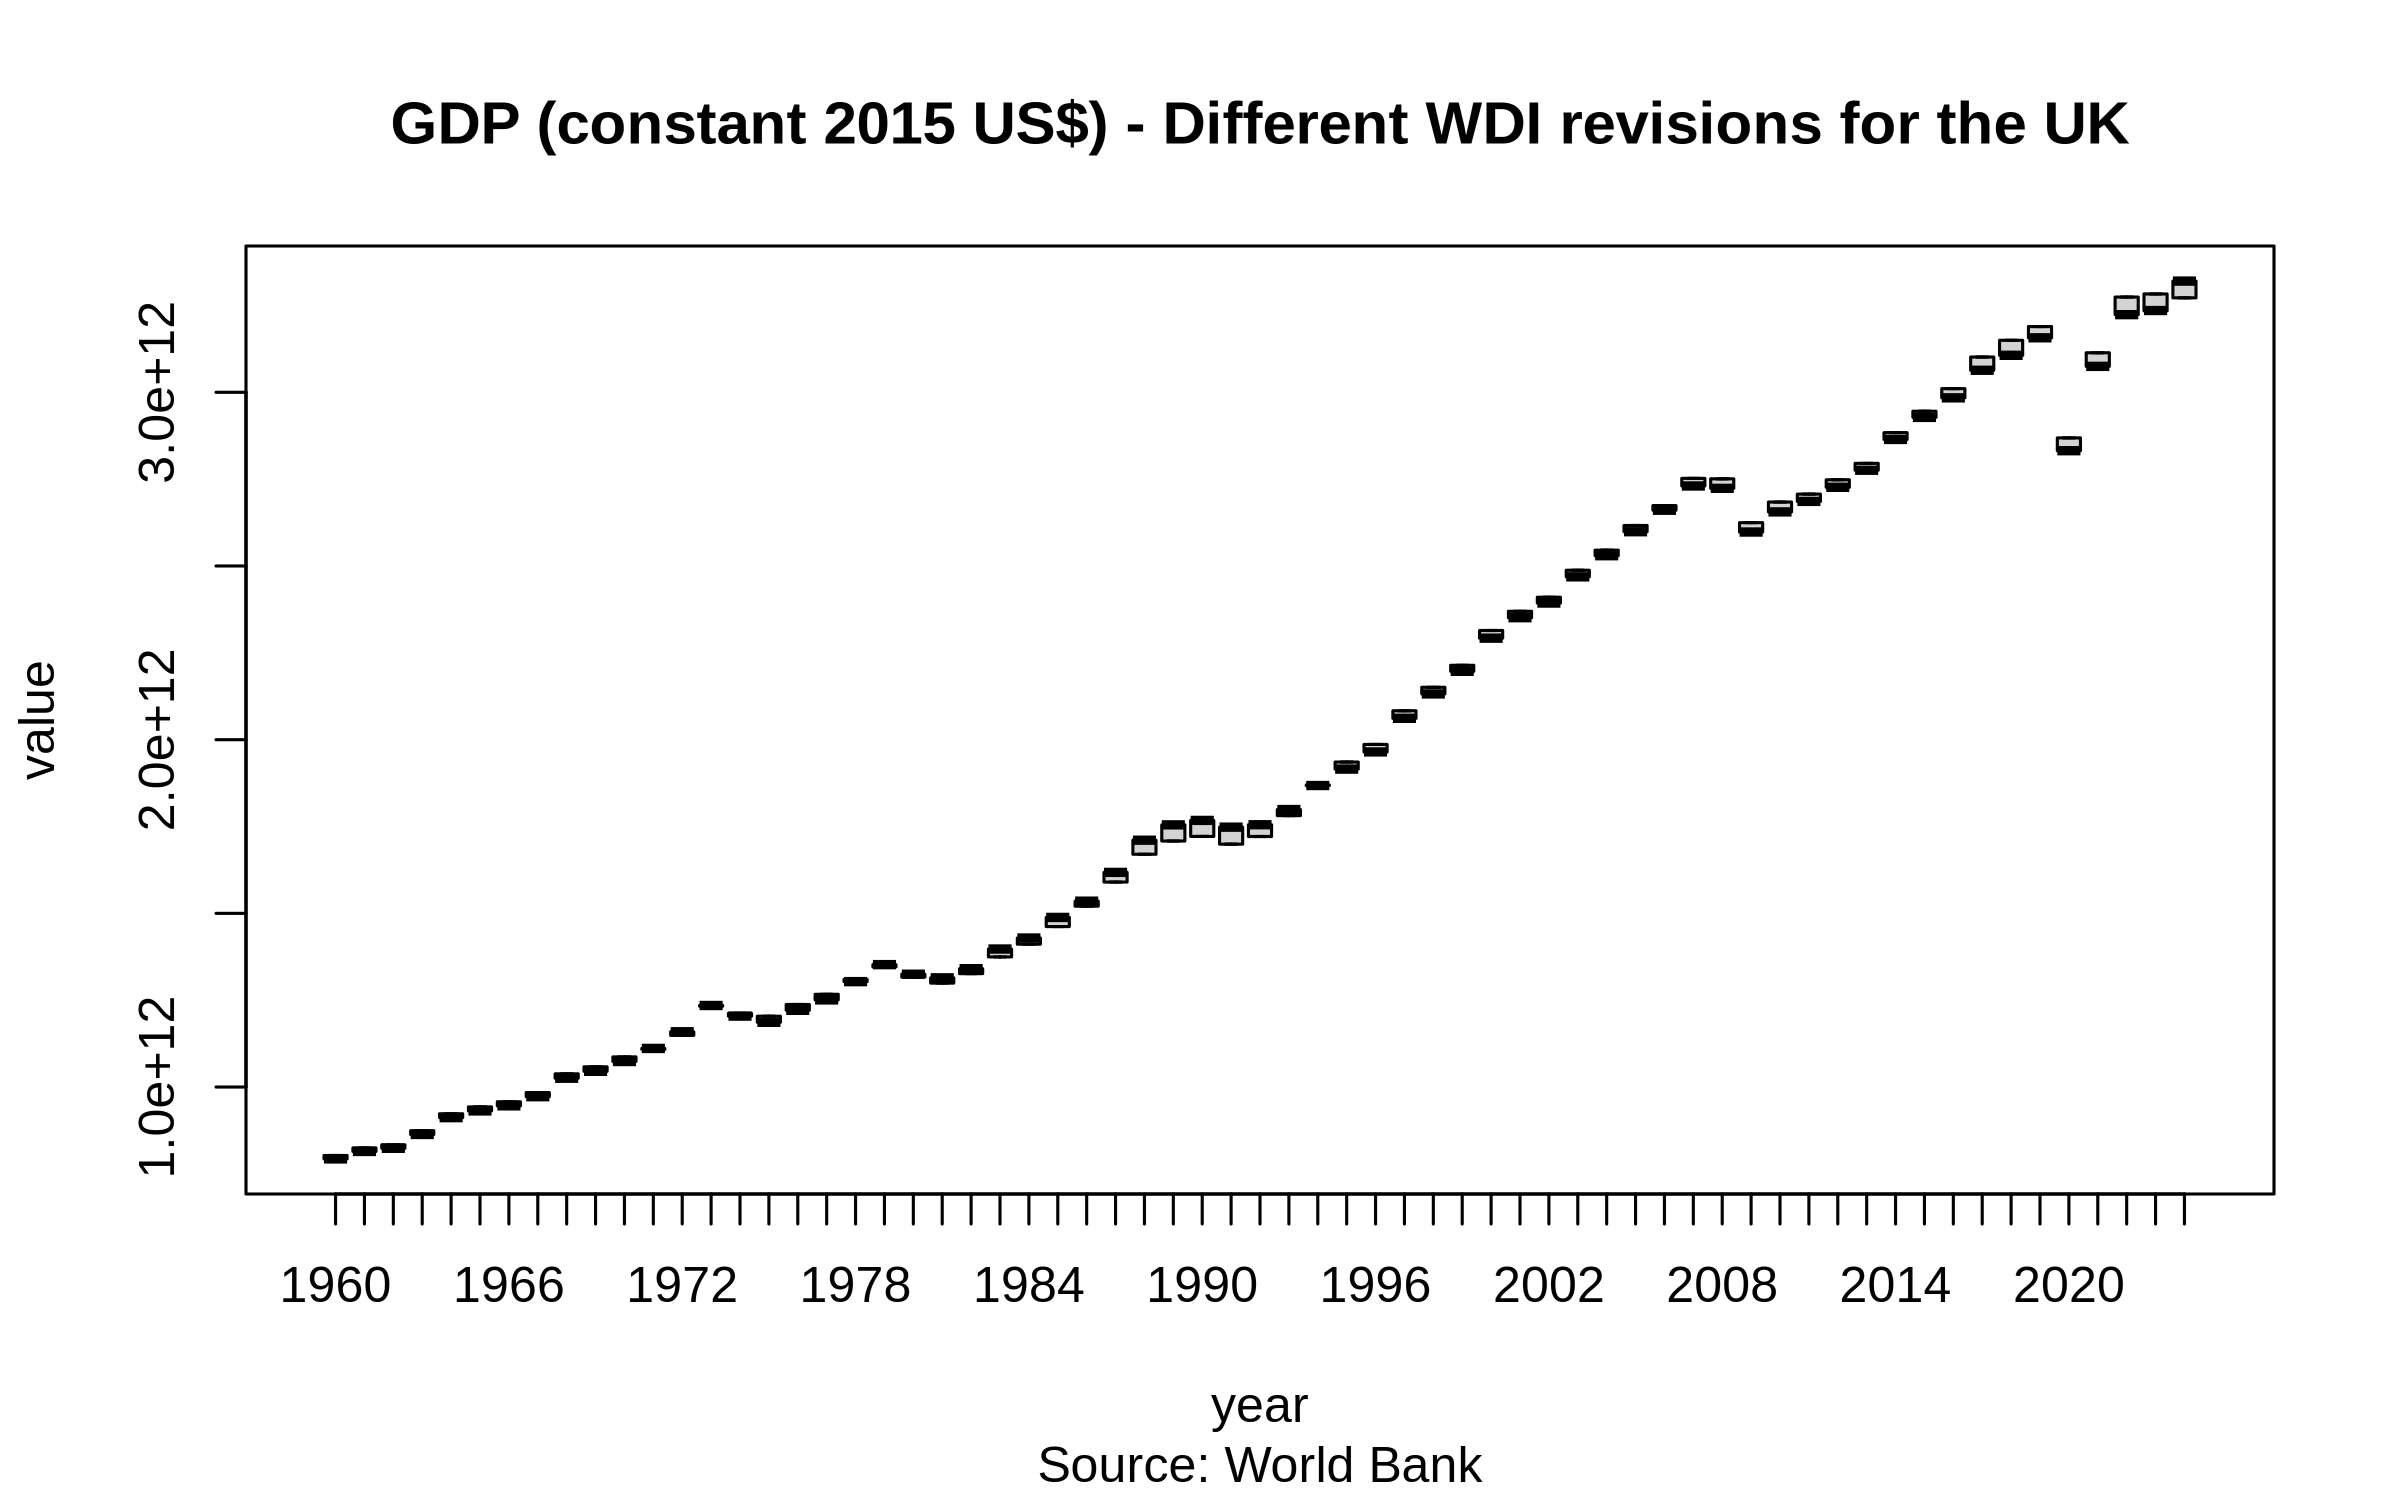
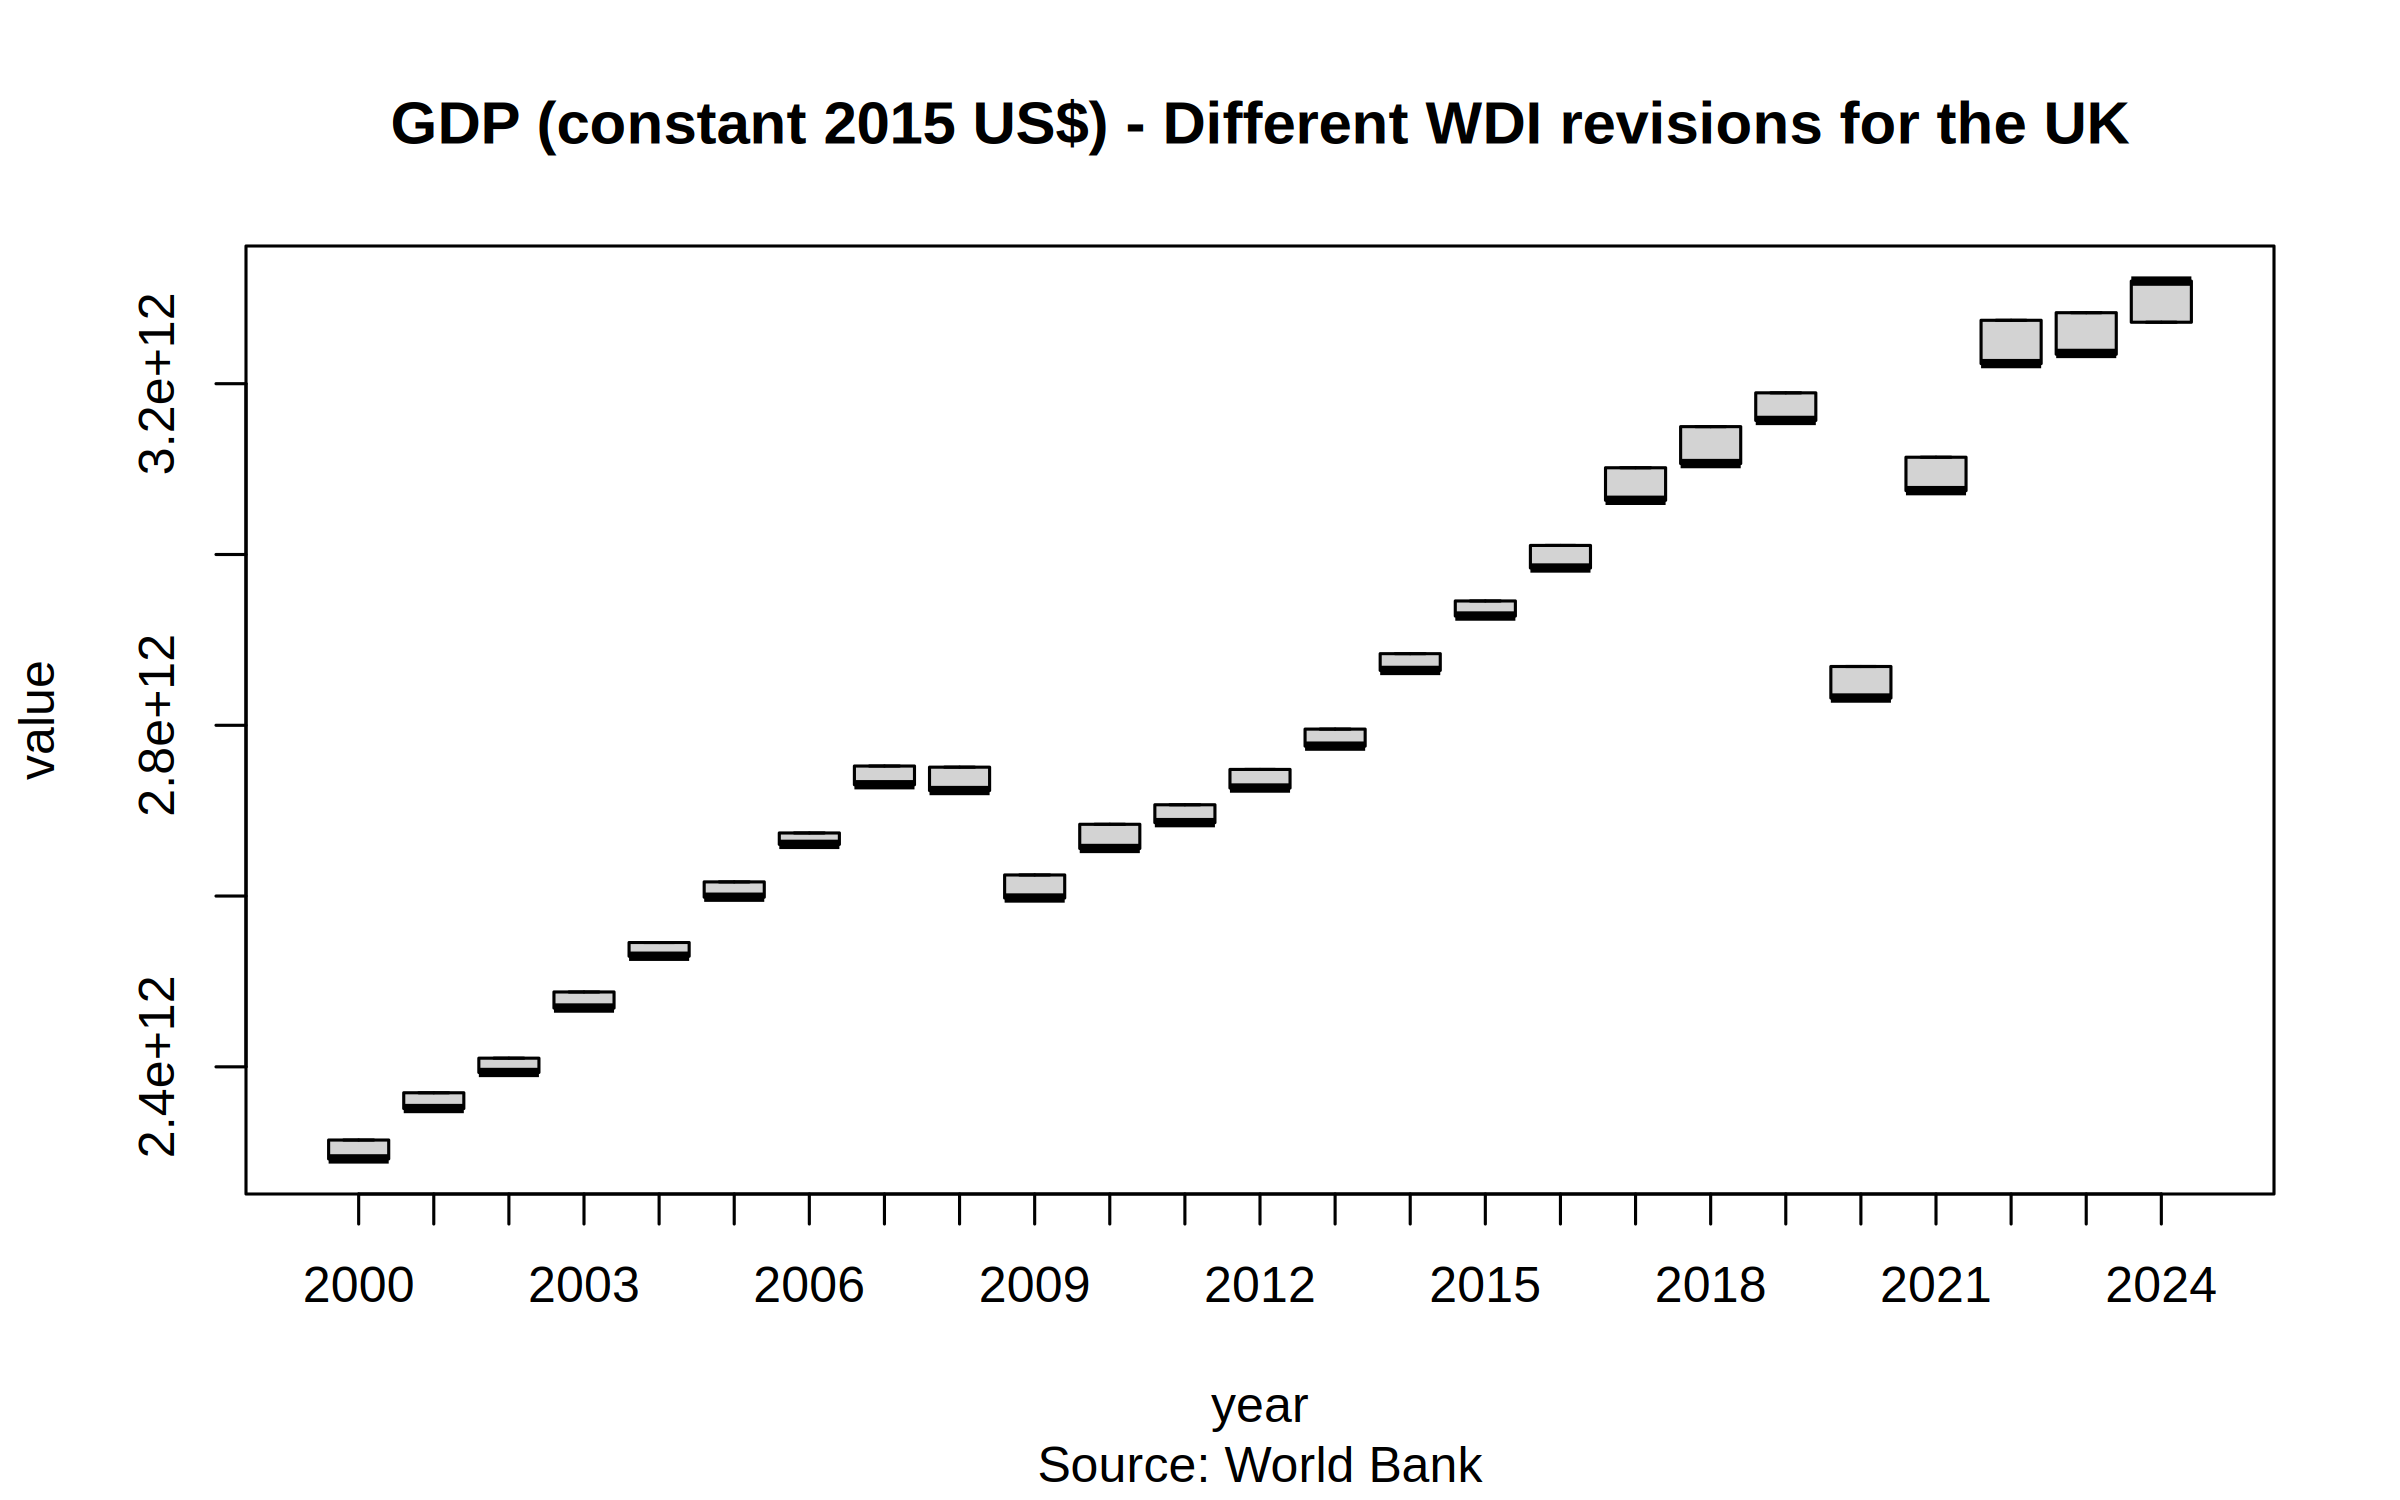
more decent plot

diff --git a/README.md b/README.md
@@ -98,11 +98,14 @@ library(tinyplot)
 last10_revisions <- sort(unique(wdi_gdp$revision))
 last10_revisions <- tail(last10_revisions, 10)
 
+wdi_gdp <- wdi_gdp[year >= 2000]
 wdi_gdp <- wdi_gdp[revision %in% last10_revisions]
 wdi_gdp <- wdi_gdp[indicator_code == "NY.GDP.MKTP.KD"]
 wdi_gdp <- wdi_gdp[iso3 == "GBR"]
 
 wdi_gdp <- wdi_gdp[, year := as.numeric(year)]
+
+tpar(bg = "white")
 
 tinyplot(
     value ~ year,
